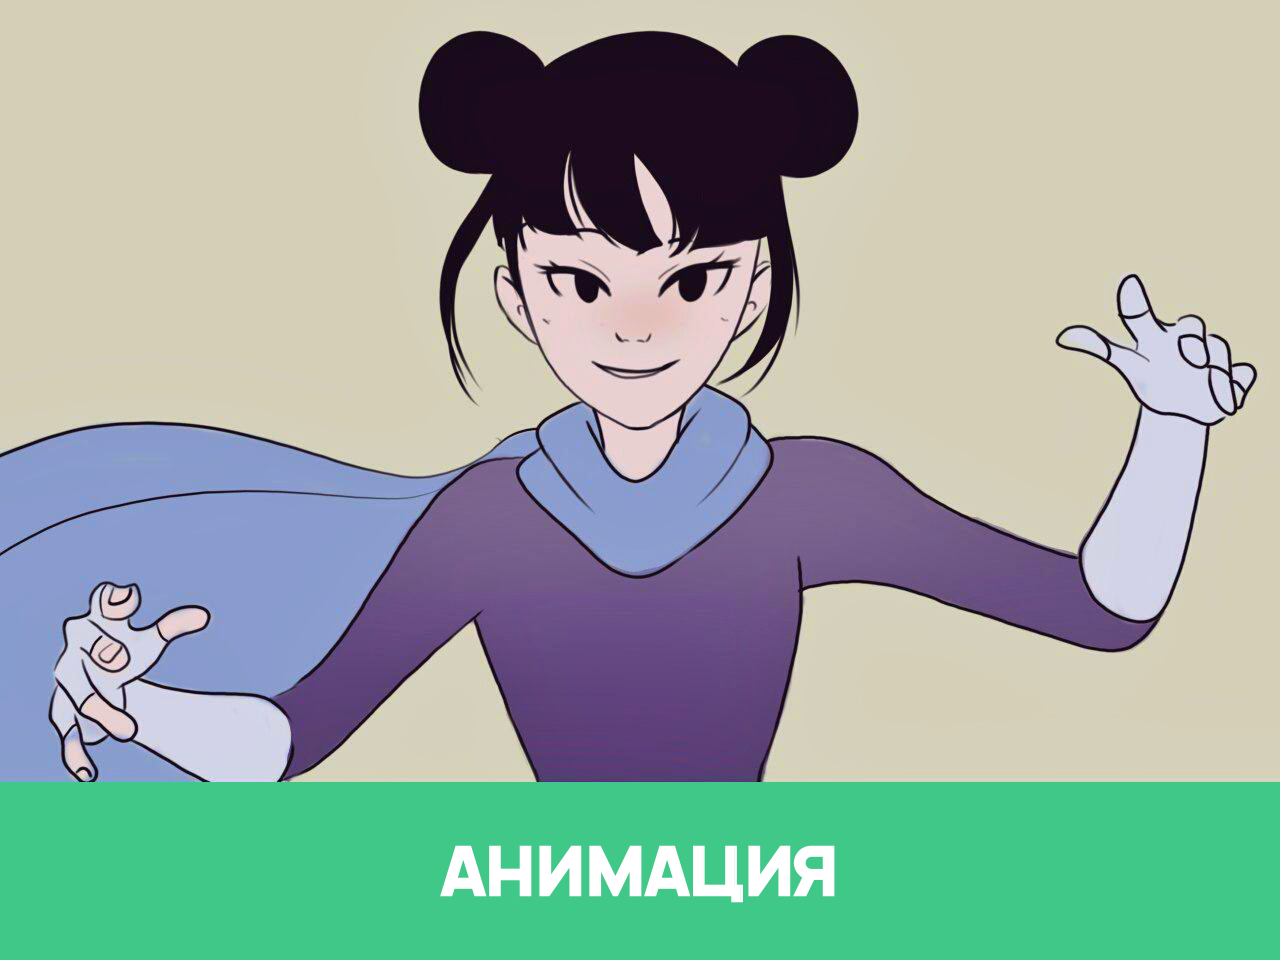
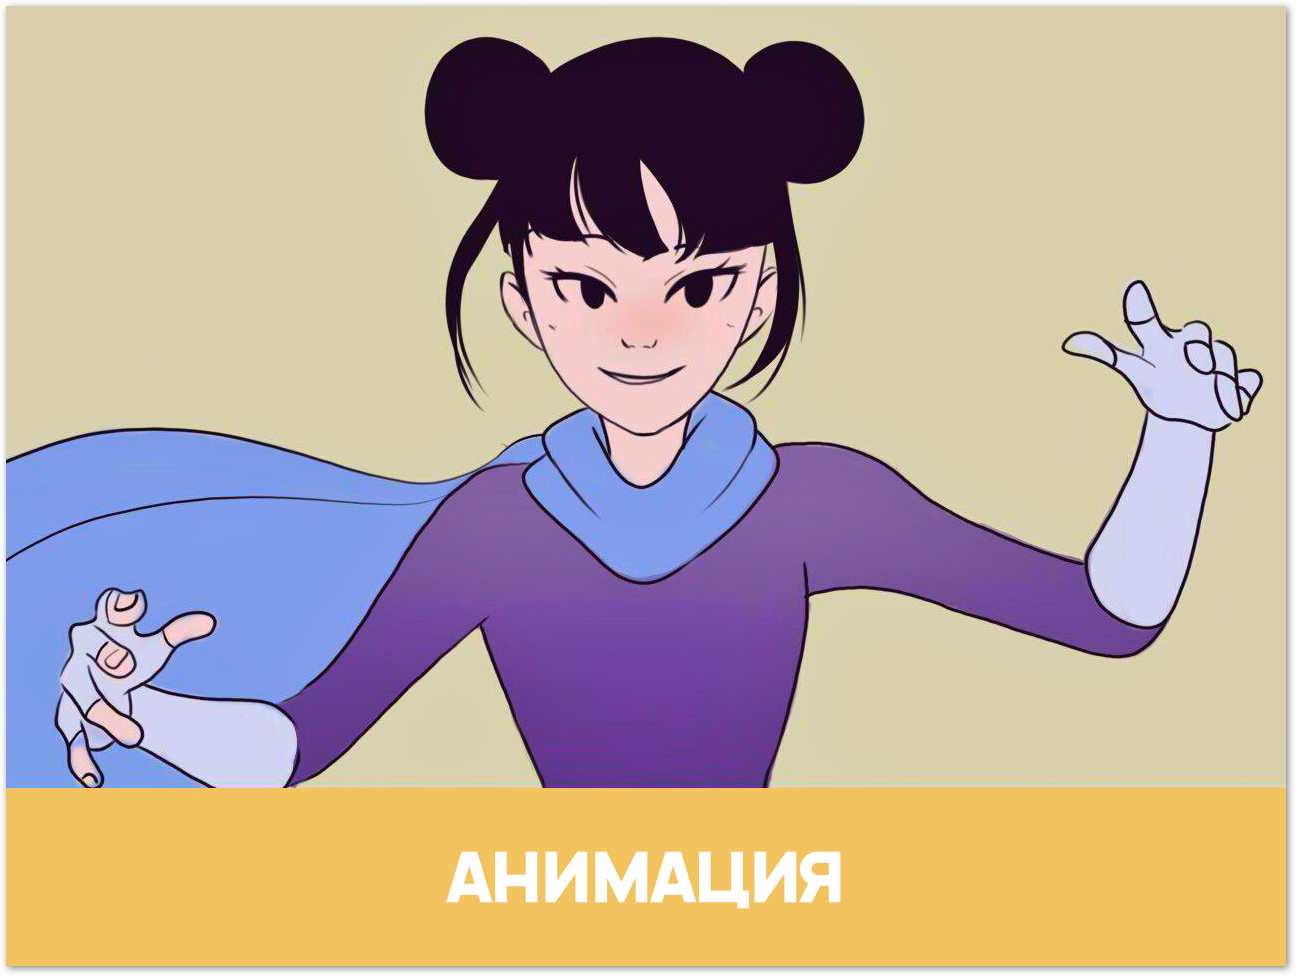
Info and design change

diff --git a/index.html b/index.html
@@ -113,17 +113,31 @@
 		</main>
  
 		<div class="section-title wow fadeIn data-wow-duration="1s" data-wow-delay=".5s"" id="COURSES">
-			<h4 class="wow fadeIn" style="margin-right: 8px; margin-left: 8px;">
   		  		<img src="images/gda_logo.png" class="img-responsive" alt="Conxole Admin" width="48px" /> <br/>
-  		  		<strong>GameDev Academy</strong> - академия разработок видеоигр. 
-  		  		<br/>
-				Сейчас открыт набор в группы на курсы концепт-арта, анимации и программирования
-			</h4>
+
+				<h2>GameDev Academy</h2>
+				<h4>Создай и запусти игру своей мечты!</h4>
+			
 			<br/><br/>
 
-			<!-- <iframe width="560" height="315" src="https://www.youtube.com/embed/WPF15wLx-f4" frameborder="0" allow="accelerometer; autoplay; encrypted-media; gyroscope; picture-in-picture" allowfullscreen></iframe> -->
+            <div class="row features">
+                <div class="col-md-2 col-sm-12 col-xs-12"> </div>
+                <div class="col-md-8 col-sm-12 col-xs-12 wow fadeIn" data-wow-duration="1s" data-wow-delay=".5s">
+					<div class="embed-responsive embed-responsive-16by9">
+					  <iframe class="embed-responsive-item" src="https://www.youtube.com/embed/Qjyi-Yd_zhw" allowfullscreen></iframe>
+					</div>
+				<br/><br/>
+				</div>
+			</div>
 		</div>
-		
+
+		<img src="images/gda_hor_logo.png" width="72px" style="margin: auto; display: block;">
+
+		<div class="section-title wow fadeIn">
+			<h2>Наши курсы</h2>
+			<h4>Сейчас открыт набор в группы</h4>
+		</div>
+
 		<!-- Courses -->
 		<section class="row features row-eq-height">
 
@@ -135,22 +149,25 @@
 					<div class="row-eq-height col-md-4 col-sm-12 wow fadeInUp data-wow-duration="1s" data-wow-delay=".5s"">
 		              <div class="card mb-4 shadow-sm" style="padding: 0px 0px 8px 0px; background-color: #FBFCFC;">
 		                <img class="card-img-top" src="images/concept.png" data-holder-rendered="true">
-		                <div class="card-body">
+		                <div class="card-body" align="center">
 
-			                <h6 style="margin-left: 16px; height: 100%;">
+			                <h6 style="margin-left: 16px; height: 100%; text-align: left;">
 			                	- Обучение в программах: Adobe Photoshop, Paint Tool Sai. <br/>
-								- Cоздание персонажа и иллюстраций, поиск стилистики, сеттинга, цветовых решений.
+								- Cоздание персонажа и иллюстраций, поиск стилистики, сеттинга, цветовых решений...
+								<a href="" data-toggle="modal" data-target="#infoConceptArt">
+									<strong>подробнее</strong>
+								</a>
 			                </h6>
 		                  
 		                  	<br/>
 
-		                  	<button class="btn btn-success" data-toggle="modal" data-whatever="Концепт-арт" data-target="#apply" style="margin: 4px;">
+		                  	<button class="btn btn-info" data-toggle="modal" data-whatever="Концепт-арт" data-target="#apply" style="margin: 4px;">
 		                  		Подать заявку
 		                  	</button>
 
-		                  	<button class="btn btn-info" data-toggle="modal" data-target="#infoConceptArt" style="margin: 4px;" >
+		                  	<!-- <button class="btn btn-info" data-toggle="modal" data-target="#infoConceptArt" style="margin: 4px;" >
 		                  		Инфо
-		                  	</button>
+		                  	</button> -->
 		                	<!-- <small class="text-muted">8 недель</small> -->
 
 		                </div>
@@ -159,25 +176,22 @@
 					<div class="row-eq-height col-md-4 col-sm-12 wow fadeInUp data-wow-duration="1s" data-wow-delay=".5s"">
 		              <div class="card mb-4 shadow-sm" style="padding: 0px 0px 8px 0px; background-color: #FBFCFC;">
 		                <img class="card-img-top" src="images/animation.png" data-holder-rendered="true">
-		                <div class="card-body">
+		                <div class="card-body" align="center">
 
-			                <h6 style="margin-left: 16px; height: 100%;">
+			                <h6 style="margin-left: 16px; height: 100%; text-align: left;">
 			                	- Обучение в программах: Adobe Photoshop, Adobe Animate. <br/>
 			                	- Раскадровка, аниматика, композиция кадров,
-			                	правило трех, расстановка камеры.
+			                	правило трех, расстановка камеры...
+								<a href="" data-toggle="modal" data-target="#infoAnimation">
+									<strong>подробнее</strong>
+								</a>
 			                </h6>
 		                  
 		                  	<br/>
 
-		                  	<button class="btn btn-success" data-toggle="modal" data-whatever="Анимация" data-target="#apply" style="margin: 4px;">
+		                  	<button class="btn btn-warning" data-toggle="modal" data-whatever="Анимация" data-target="#apply" style="margin: 4px;">
 		                  		Подать заявку
 		                  	</button>
-
-		                  	<button class="btn btn-info" data-toggle="modal" data-target="#infoAnimation" style="margin: 4px;" >
-		                  		Инфо
-		                  	</button>
-
-		                	<!-- <small class="text-muted">8 недель</small> -->
 
 		                </div>
 		              </div>
@@ -185,22 +199,25 @@
 					<div class="row-eq-height col-md-4 col-sm-12 wow fadeInUp data-wow-duration="1s" data-wow-delay=".5s"">
 		              <div class="card mb-4 shadow-sm" style="padding: 0px 0px 8px 0px; background-color: #FBFCFC;">
 		                <img class="card-img-top" src="images/code.png" data-holder-rendered="true">
-		                <div class="card-body">
+		                <div class="card-body" align="center">
 
-			                <h6 style="margin-left: 16px; height: 100%;">
+			                <h6 style="margin-left: 16px; height: 100%; text-align: left;">
 			                	- Обучение в программах: Unity 3D, Visual Studio. <br/>
-								- Программирование на языке C#, создание UI/UX, сборка собственных проектов.
+								- Программирование на языке C#, создание UI/UX, сборка собственных проектов...
+								<a href="" data-toggle="modal" data-target="#infoScripting">
+									<strong>подробнее</strong>
+								</a>
 			                </h6>
 		                  
 		                  	<br/>
 
-		                  	<button class="btn btn-success" data-toggle="modal" data-whatever="Программирования" data-target="#apply" style="margin: 4px;">
+		                  	<button class="btn btn-error" data-toggle="modal" data-whatever="Программирования" data-target="#apply" style="margin: 4px;">
 		                  		Подать заявку
 		                  	</button>
 
-		                  	<button class="btn btn-info" data-toggle="modal" data-target="#infoScripting" style="margin: 4px;" >
+		                  	<!-- <button class="btn btn-info" data-toggle="modal" data-target="#infoScripting" style="margin: 4px;" >
 		                  		Инфо
-		                  	</button>
+		                  	</button> -->
 		                	<!-- <small class="text-muted">8 недель</small> -->
 		                </div>
 		              </div>
@@ -386,58 +403,7 @@
 		<br/><br/>
 		<!-- <hr/> -->
 		<img src="images/gda_hor_logo.png" width="72px" style="margin: auto; display: block;">
-		<!-- <section>
-			
-			<div class="number" role="main" style="width: 100%; padding: 0;">
-				<div class="container wow fadeIn" data-wow-duration="1s">
-				    <div class="row" style="margin: 60px 0; text-align: center;">
-						<div class="col-lg-12 col-md-12 col-sm-12 col-xs-12">
-							<h2 style="color: #fff;">
-								Интересные факты
-     						</h2>
-     						<h4 style="color: #fff;">
-								Посмотрим некоторые цифры о нас
-							</h4>
-						</div>
-					</div>
-					<div class="row" style="margin: 60px 0; text-align: center;">
-						<div class="col-lg-3 col-md-6 col-sm-12 col-xs-12">
-								<a class="fig">
-									<img src="https://img.icons8.com/color/480/000000/multiple-inputs.png" width="72px">
-									<h2 style="color: #fff; font-weight: 12;">12968</h2>
-									<h5 style="color: #fff; margin-top: 16px;">СДЕЛАННЫХ ЗАГРУЗОК</h5>
-								</a>
-						</div>
-						<div class="col-lg-3 col-md-6 col-sm-12 col-xs-12">
-								<a class="fig">
-									<img src="https://img.icons8.com/color/480/000000/mind-map.png" width="72px">
-									<h2 style="color: #fff; font-weight: 12;">623489</h2>
-									<h5 style="color: #fff;">ВЫПОЛНЕННЫХ СЕССИЙ</h5>
-								</a>
-						</div>
-						<div class="col-lg-3 col-md-6 col-sm-12 col-xs-12">
-								<a class="fig">
-									<img src="https://img.icons8.com/color/480/000000/collaboration.png" width="72px">
-									<h2 style="color: #fff; font-weight: 12;">376</h2>
-									<h5 style="color: #fff;">ОТЗЫВОВ</h5>
-								</a>
-						</div>
-						<div class="col-lg-3 col-md-6 col-sm-12 col-xs-12">
-								<a class="fig">
-									<img src="https://img.icons8.com/color/480/000000/warranty.png" width="72px">
-									<h2 style="color: #fff; font-weight: 12;">12</h2>
-									<h5 style="color: #fff;">НАГРАЖДЕНИЙ</h5>
-								</a>
-						</div>
-					</div>
-
-					<br/><br/><br/><br/><br/>
-					<br/><br/><br/><br/><br/>
-					<br/><br/><br/><br/><br/>
-				</div>
-			</div>
-
-		</section> -->
+		
 
 		<!-- Portfolio  -->
 		<div class="container" id="PORTFOLIO">
@@ -526,6 +492,16 @@
 	                    </div>
 	                </div>
         		</div>
+
+	            <div class="col-md-3 col-lg-4">
+	            </div>
+	            <div class="col-xs-12 col-sm-12 col-md-6 col-lg-4 wow fadeInUp data-wow-duration="1s" data-wow-delay=".5s"">
+	            <br/><br/>
+	            	<button class="btn btn-success btn-lg btn-block" data-toggle="modal" data-whatever="Готов!" data-target="#apply" style="margin: 4px;">
+	                  		Подать заявку
+                  	</button>
+	            <br/>
+	            </div>
 
 			</section>
 
@@ -619,47 +595,46 @@
 		            </div>
 
 	            </div>
+	            <div class="col-md-3 col-lg-4">
+	            </div>
+	            <div class="col-xs-12 col-sm-12 col-md-6 col-lg-4 wow fadeInUp data-wow-duration="1s" data-wow-delay=".5s"">
+	            <br/>
+	            	<button class="btn btn-success btn-lg btn-block" data-toggle="modal" data-whatever="Готов!" data-target="#apply" style="margin: 4px;">
+	                  		Подать заявку
+                  	</button>
+	            <br/>
+	            </div>
 			</section>
 		</div>
 
 		<br/><br/>
 		<!-- <hr/> -->
-		<img src="images/gda_hor_logo.png" width="72px" style="margin: auto; display: block;">
+		<!-- <img src="images/gda_hor_logo.png" width="72px" style="margin: auto; display: block;"> -->
 		<!-- Prising list	   -->
-		<div class="container">
+		<!-- <div class="container">
  
 			<div class="section-title wow fadeInUp">
 				<h2>Цены</h2>
-				<h4>У нас скидки, успей записаться!</h4>
+				<h4>У нас самые оптимальные цены!</h4>
 			</div>
 			<section class="row">
 			
 		            <div class="col-xs-12 col-sm-12 col-md-4 col-lg-4 wow fadeInUp data-wow-duration="1s" data-wow-delay=".5s"">
-		                <!-- <div class="cnrflash">
-		                    <div class="cnrflash-inner">
-		                        <span class="cnrflash-label" style="font-size: 12px;">
-		                        	ЛУЧШИЙ <br> ВЫБОР!
-	                            </span>
-		                    </div>
-		                </div> -->
 		                <div class="db-wrapper">
 		                    <div class="db-pricing-eleven db-bk-color">
 		                        <div class="price-one">
-		                            <sup>&#8376</sup> 61200 <br/><br/>
-	                                <h6 style="color: #fff;">Успей до 21го января!</h6>
+		                            <sup>&#8376</sup> 72000 <br/><br/>
+	                                <h6 style="color: #fff;">Стоимость полного курса</h6>
 		                        </div>
 		                        <div class="type-sale-one">
-	                            	15% СКИДКА
+	                            	Концепт-арт
 		                        </div>
 		                        <div class="price-content" style="margin-top: 32px;">
 	                            	<h5 style="font-weight: 600; font-size: 14; margin: 0px;">
 	                            		Длительность курса
 	                            	</h5>
 	                            	2 месяца 
-	                            	<h5 style="font-weight: 600; font-size: 14; margin: 0px; margin-top: 16px;">
-	                            		Начало курсов
-	                            	</h5>
-	                            	4го февраля 
+	                            	 
 	                            	<h5 style="font-weight: 600; font-size: 14; margin: 0px; margin-top: 16px;">
 	                            		Время
 	                            	</h5>
@@ -667,7 +642,7 @@
 	                            	<h5 style="font-weight: 600; font-size: 14; margin: 0px; margin-top: 16px;">
 	                            		Дни недели
 	                            	</h5>
-	                            	Пн, Ср, Пт 
+	                            	Вт, Чт, Сб 
 		                        </div>
 		                        
 		                    </div>
@@ -677,21 +652,18 @@
 		                <div class="db-wrapper">
 			                <div class="db-pricing-eleven db-bk-color">
 			                    <div class="price-two">
-		                            <sup>&#8376</sup> 64800 <br/><br/>
-	                                <h6 style="color: #fff;">до 28го января</h6>
+		                            <sup>&#8376</sup> 72000 <br/><br/>
+	                                <h6 style="color: #fff;">Стоимость полного курса</h6>
 			                    </div>
 			                    <div class="type-sale-two">
-			                        10% СКИДКА
+			                        Анимация
 			                    </div>
 		                        <div class="price-content" style="margin-top: 32px;">
 	                            	<h5 style="font-weight: 600; font-size: 14; margin: 0px;">
 	                            		Длительность курса
 	                            	</h5>
 	                            	2 месяца 
-	                            	<h5 style="font-weight: 600; font-size: 14; margin: 0px; margin-top: 16px;">
-	                            		Начало курсов
-	                            	</h5>
-	                            	4го февраля 
+	                            	 
 	                            	<h5 style="font-weight: 600; font-size: 14; margin: 0px; margin-top: 16px;">
 	                            		Время
 	                            	</h5>
@@ -710,20 +682,17 @@
 			                <div class="db-pricing-eleven db-bk-color">
 			                    <div class="price-three">
 		                            <sup>&#8376</sup> 72000 <br/><br/>
-	                                <h6 style="color: #fff;">до 4го февраля</h6>
+	                                <h6 style="color: #fff;">Стоимость полного курса</h6>
 			                    </div>
 			                    <div class="type-sale-three">
-			                       	Полный курс
+			                       	Программирование
 			                    </div>
 		                        <div class="price-content" style="margin-top: 32px;">
 	                            	<h5 style="font-weight: 600; font-size: 14; margin: 0px;">
 	                            		Длительность курса
 	                            	</h5>
 	                            	2 месяца 
-	                            	<h5 style="font-weight: 600; font-size: 14; margin: 0px; margin-top: 16px;">
-	                            		Начало курсов
-	                            	</h5>
-	                            	4го февраля 
+	                            	 
 	                            	<h5 style="font-weight: 600; font-size: 14; margin: 0px; margin-top: 16px;">
 	                            		Время
 	                            	</h5>
@@ -749,9 +718,9 @@
 
 			</section>
  
-		</div>
+		</div> -->
 
-		<br/>
+		<!-- <br/> -->
 		<!-- <hr/> -->
 		<img src="images/gda_hor_logo.png" width="72px" style="margin: auto; display: block;">
 
@@ -846,7 +815,7 @@
 	                        <a href="https://vk.com/f4d3in" style="margin-right: 12px;">
 	                        	<img src="images/vk.png" width="25px">
 	                        </a>
-	                    	<a href="https://www.instagram.com/f4d3.in/" style="margin-right: 12px;">
+	                    	<a href="https://www.instagram.com/gamedev.academy/" style="margin-right: 12px;">
 	                    		<img src="images/instagram.png" width="25px">
 	                    	</a>
 	                    	<a href="https://t.me/F4d3in" style="margin-right: 12px;">

diff --git a/css/main.css b/css/main.css
@@ -770,6 +770,18 @@ to {
   color:#FFF;
   border: 0;
 }
+.btn-error {
+  background-color: #EF5565;
+  color: #fff;
+  background-image:none;
+  border: 0;
+  line-height: 1.8;
+}
+.btn-error:hover, .btn-error:focus, .btn-error:active {
+  background-color: #CC4857;
+  color:#FFF;
+  border: 0;
+}
 .btn-warning {
   background-color: #F2C35E;
   background-image:none;
